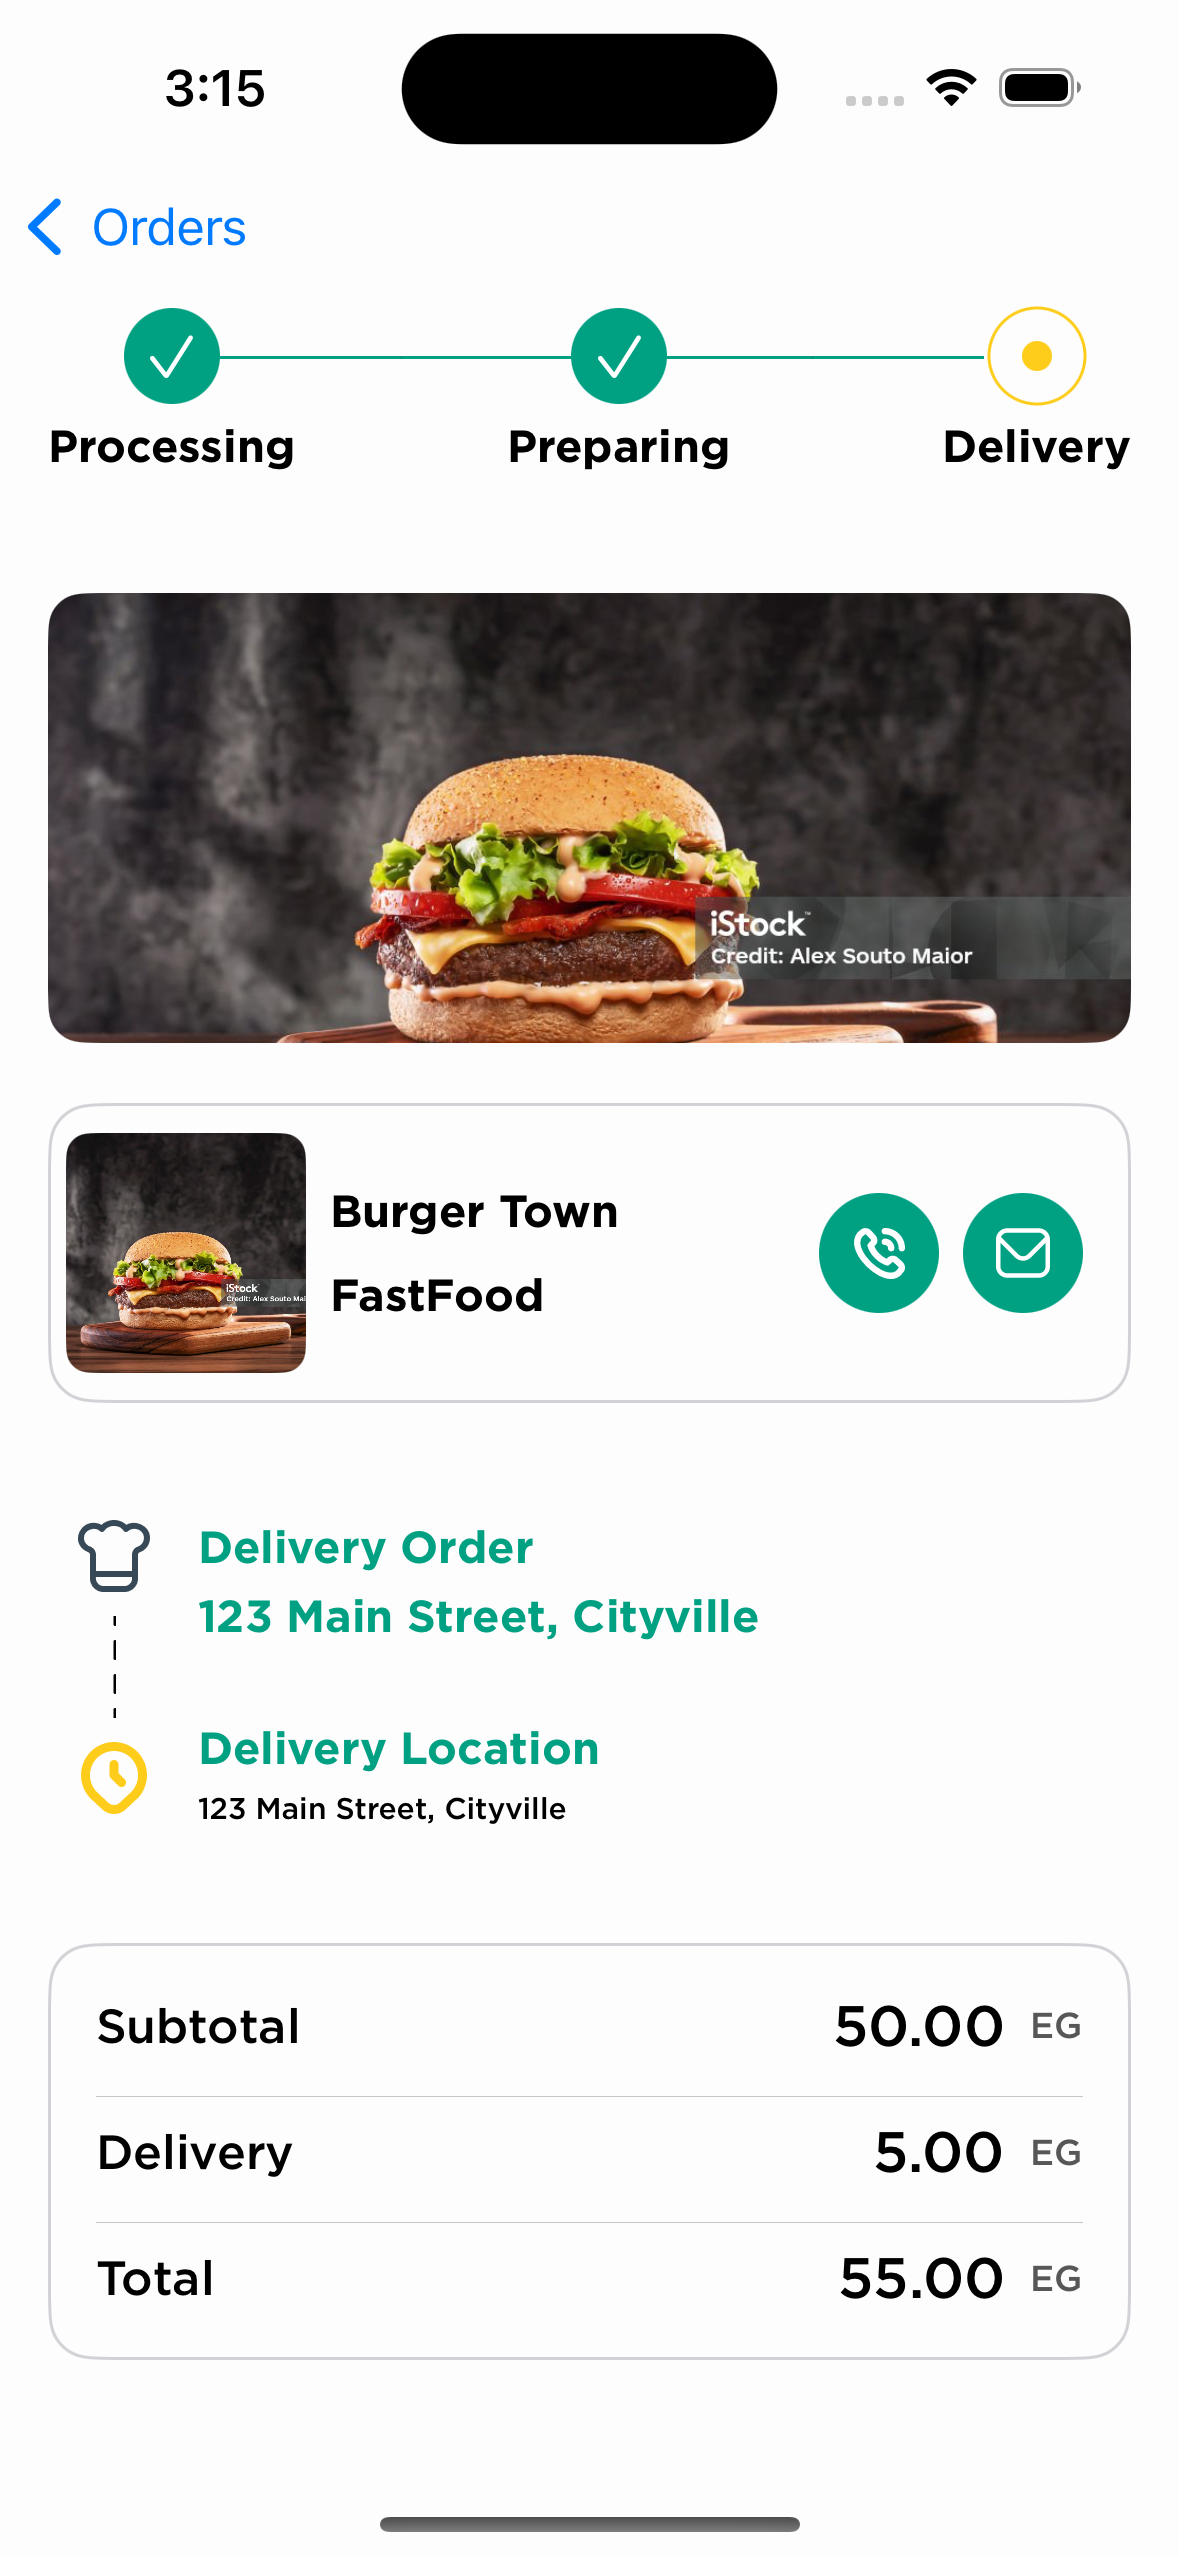
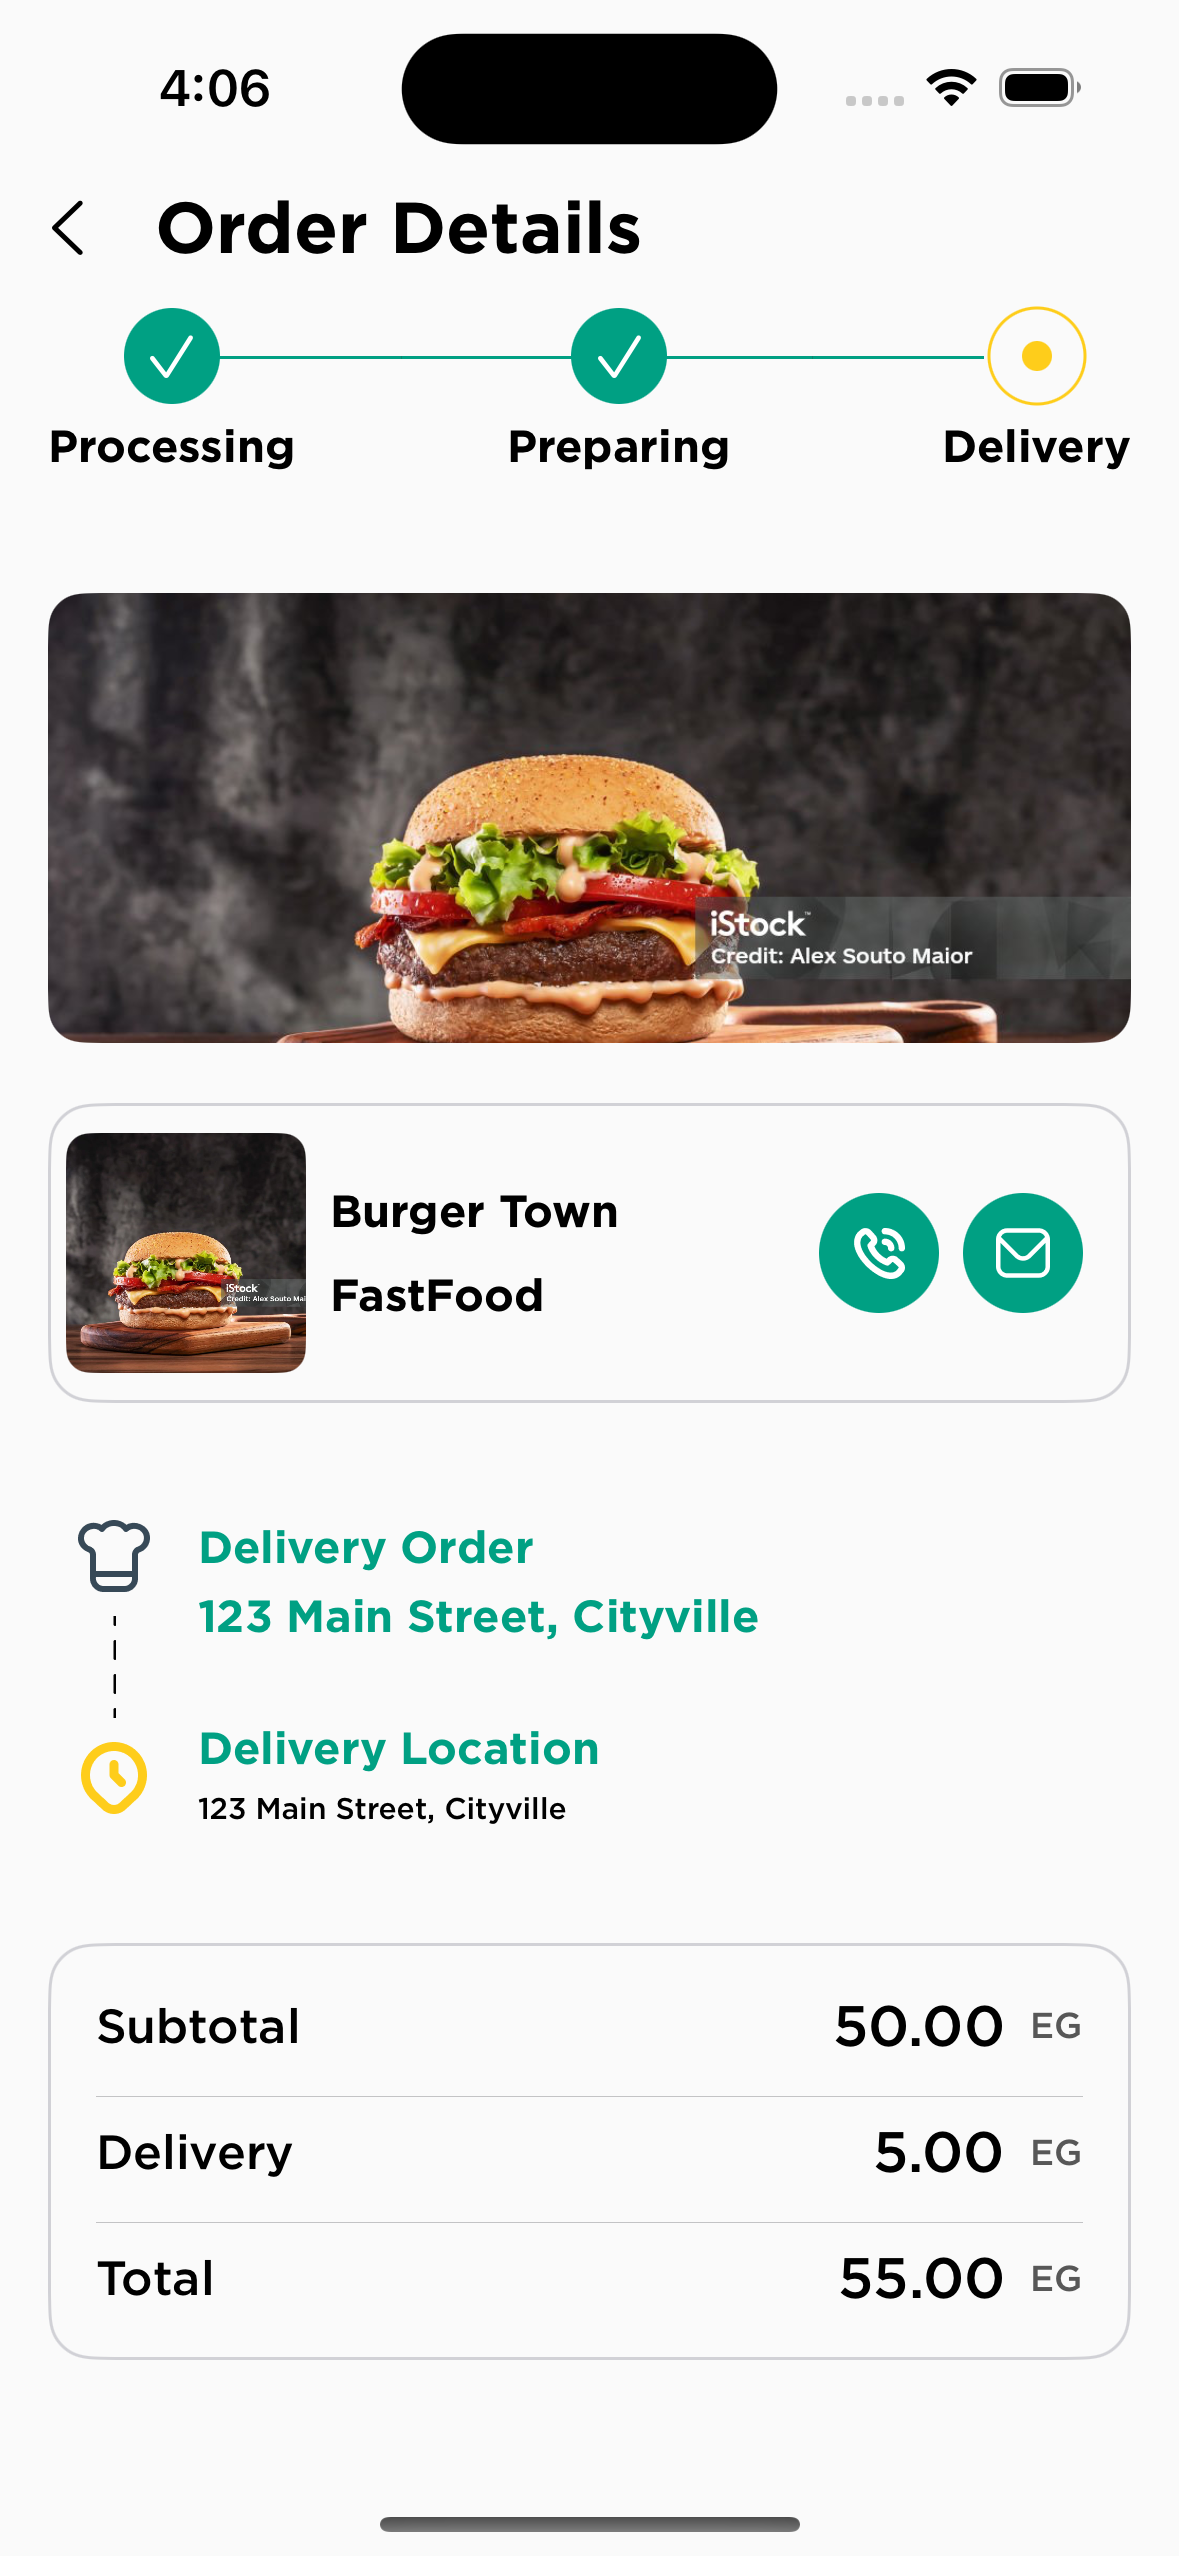
add Screenshots of app

Changed region(s): [[0.0916, 0.0309, 0.3053, 0.1236], [0.3359, 0.0618, 0.5496, 0.1236], [0.0305, 0.0618, 0.0611, 0.0927]]

diff --git a/FoodDeliveryApp/Screens/Authentication/New Password/Presentation/View/NewPasswordScreen.swift b/FoodDeliveryApp/Screens/Authentication/New Password/Presentation/View/NewPasswordScreen.swift
@@ -38,8 +38,13 @@ struct NewPasswordScreen: View {
                 Button(action: {
                     coordinator.pop()
                 }) {
-                    Image(systemName: "chevron.left")
-                        .foregroundColor(.black) // arrow color
+                    HStack(spacing: Dimensions.d20){
+                        Image(systemName: "chevron.left")
+                            .foregroundColor(.black) // arrow color
+                        Text("New Password")
+                            .font(.custom(AppFont.bold.name, size: Dimensions.d24))
+                            .foregroundStyle(.black)
+                    }
                 }
             }
         }

diff --git a/FoodDeliveryApp/Screens/Edit Profile/Presentation/View/EditProfileScreen.swift b/FoodDeliveryApp/Screens/Edit Profile/Presentation/View/EditProfileScreen.swift
@@ -46,7 +46,7 @@ struct EditProfileScreen: View {
                     HStack(spacing: Dimensions.d20){
                         Image(systemName: "chevron.left")
                             .foregroundColor(.black) // arrow color
-                        Text("Settings")
+                        Text("Profile")
                             .font(.custom(AppFont.bold.name, size: Dimensions.d24))
                             .foregroundStyle(.black)
                     }

diff --git a/README.md b/README.md
@@ -3,6 +3,7 @@
 ## 📱 Overview
 A lightweight food delivery tracking app built with SwiftUI and MVVM. It displays orders and tracks real-time updates via WebSocket.
 
+
 ## Architecture
 
 1. SwiftUI + MVVM
@@ -13,26 +14,37 @@ A lightweight food delivery tracking app built with SwiftUI and MVVM. It display
 ## 🔧 Setup Instructions
 
 1. Clone the repo
-2. Open in Xcode
+2. setup mocked api using "Mockoon Application" drag FoodDeliveryMockApi.json from Application files to Mockoon and run local server 
 3. Run the app
 
 
 ## 🚀 Mock Server
 
-https://app.beeceptor.com/console/fooddeliveryapp
+http://localhost:3000
 
 ### Endpoints:
 
-- GET /orders
-- GET /orders/{id}
+- POST /register (for user registration)
+- POST /login (for user authentication)
+- GET /orders (list all orders)
+- GET /order/{id} (get details for a specific order)
+- POST /orders (create a new order)
+- GET /profile (get user profile)
+- PUT /profile (update user profile)
 - WS: ws://localhost:8080/orders/updates
 
 ## 📱 Screenshots
-
-### 🧾 Order List
-
+![Onboarding](Screenshots/onboarding1.png)
+![Onboarding](Screenshots/onboarding2.png)
+![Onboarding](Screenshots/onboarding3.png)
+![Start](Screenshots/start.png)
+![login](Screenshots/login.png)
+![Register](Screenshots/register.png)
+![Forget Password](Screenshots/forgetPassword.png)
+![New Password](Screenshots/newPassword.png)
+![Dashboard](Screenshots/dashboard.png)
 ![Order List](Screenshots/orderList.png)
-
-### 🚚 Order Details
-
 ![Order Details](Screenshots/orderDetails.png)
+![Add Order](Screenshots/addOrder.png)
+![Settings](Screenshots/settings.png)
+![Profile](Screenshots/Profile.png)
